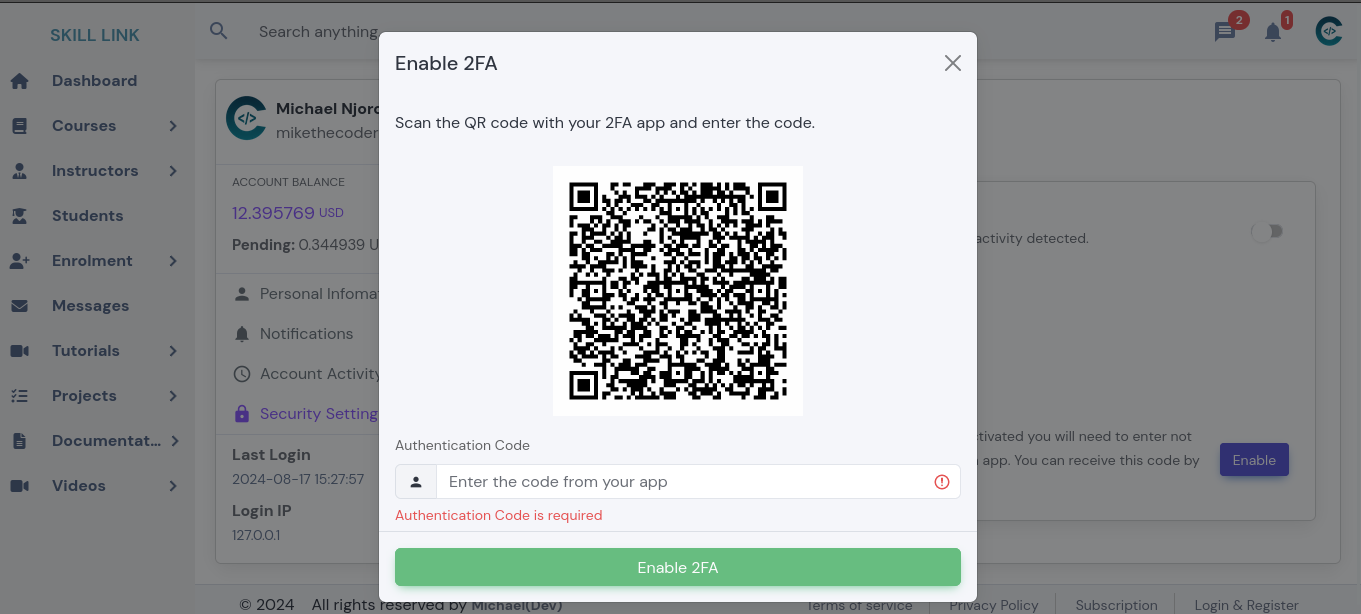
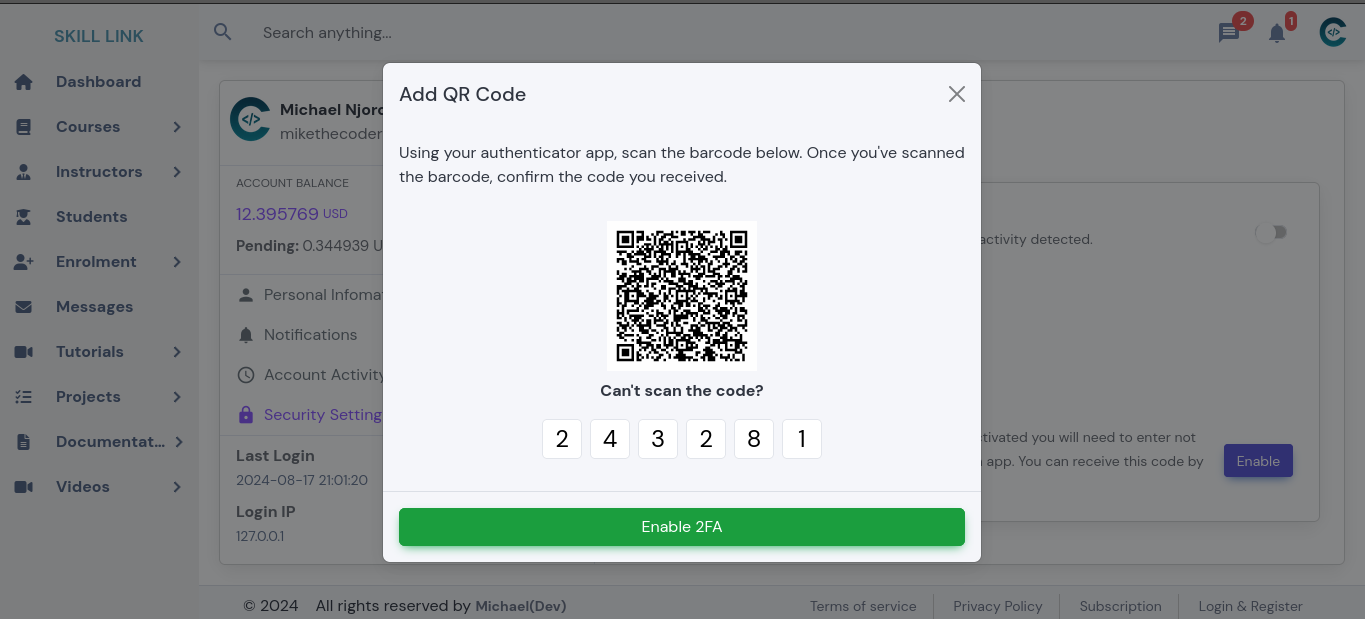
2factor auth

diff --git a/src/views/ProfilePage.vue b/src/views/ProfilePage.vue
@@ -342,7 +342,7 @@
                  :visible="visibleModal2"
                   @update:visible="visibleModal2 = $event"
                   @save="confirmAction"
-                  :modalTitle="is2FAEnabled ? 'Disable 2FA' : 'Enable 2FA'"
+                  :modalTitle="is2FAEnabled ? 'Disable 2FA' : 'Add QR Code'"
                   colorCancel="secondary"
                   colorSave="success text-white w-100"
                   alignment="center"
@@ -351,19 +351,32 @@
                   :buttonText="is2FAEnabled ? 'Disable 2FA' : 'Enable 2FA'"
                   type="submit"
                   backgroundColor="#f5f6fa"
-                  :disabled="isInvalid"
+                  :disabled="!isCodeComplete"
                >
                   <CForm novalidate :validated="validatedCustom03" @submit.prevent="confirmAction" class="row g-3 needs-validation">
-                    <p>{{ is2FAEnabled ? 'Are you sure you want to disable two-factor authentication?' : 'Scan the QR code with your 2FA app and enter the code.' }}</p>
+                    <p>{{ is2FAEnabled ? 'Are you sure you want to disable two-factor authentication?' : "Using your authenticator app, scan the barcode below. Once you've scanned the barcode, confirm the code you received." }}</p>
                     <div v-if="!is2FAEnabled">
-                      <div v-html="qrCode" class="d-flex align-items-center justify-content-center mx-auto" style="max-width: 250px; max-height: 250px; text-align: center;"></div>
-                      <CustomInput 
-                        v-model="code" 
-                        feedbackInvalid="Authentication Code is required"
-                        label="Authentication Code" 
-                        placeholder="Enter the code from your app" 
-                        required
-                      />
+                      <div v-html="qrCode" class="d-flex align-items-center justify-content-center mx-auto" style="max-width: 150px; max-height: 150px; text-align: center;"></div>
+                      <p v-if="!toggleSecret" class="text-center mt-2" style="cursor: pointer;" @click="showSecret"><strong>Can't scan the code?</strong></p>
+                      <p v-if="toggleSecret" class="mt-2 text-center" style="cursor: pointer;">
+                        <span class="mx-1">Enter the secret key</span>
+                        <span class="fw-bolder px-2 py-1 text-muted text-small" style="background-color: #fde6e9;border-radius: 5px;">{{secret}}</span>
+                      </p>
+                        <div class="code-input">
+                          <input
+                            v-for="(digit, index) in code"
+                            :key="index"
+                            v-model="code[index]"
+                            @input="moveFocus(index)"
+                            @keydown.backspace="moveBack(index)"
+                            maxlength="1"
+                            class="digit-input"
+                            type="text"
+                            inputmode="numeric"
+                            pattern="[0-9]*"
+                            :ref="el => inputRefs[index] = el"
+                          />
+                        </div>
                     </div>
                   </CForm>
               </CustomModal>
@@ -595,8 +608,31 @@ const validatedCustom03 = ref(false);
 const is2FAEnabled = ref(false);
 const isProcessing = ref(false);
 const visibleModal2 = ref(false)
-const code = ref('');
+const toggleSecret = ref(false)
+const code = ref(['', '', '', '', '', '']);
+const inputRefs = ref([]);
 const qrCode = ref('');
+const secret = ref('');
+
+const moveFocus = (index) => {
+  if (code.value[index].length === 1 && index < code.value.length - 1) {
+    inputRefs.value[index + 1].focus();
+  }
+};
+
+const moveBack = (index) => {
+  if (code.value[index] === '' && index > 0) {
+    inputRefs.value[index - 1].focus();
+  }
+};
+
+const isCodeComplete = computed(() => {
+  return code.value.every(digit => digit.length === 1);
+});
+
+const showSecret = () => {
+  toggleSecret.value = true
+}
 
 const data = ref({
   firstname: '',
@@ -625,6 +661,7 @@ const enable2FA = async () => {
     await store.dispatch('auth/enable2FA');
     const response = store.getters['auth/enable2FA'];
     qrCode.value = response.qr_code
+    secret.value = response.string
     visibleModal2.value = true;
   } catch (error) {
     console.error('Error enabling 2FA:', error);
@@ -676,10 +713,6 @@ const isFormInvalid = computed(() =>
   passwordData.value.currentPassword === '' ||
   passwordData.value.password === '' ||
   passwordData.value.password_confirmation === ''
-);
-
-const isInvalid = computed(() => 
-  code.value === ''
 );
 
 const selectSection = (section) => {
@@ -849,9 +882,21 @@ watch(route, (newRoute) => {
 .custom-input {
   border: 1px solid #e2e5eb !important;
 }
-svg{
-  width: 250px!important;
-  height: 250px!important;
+
+.code-input {
+  display: flex;
+  align-items: center;
+  justify-content: center;
+  gap: 8px; 
+}
+
+.digit-input {
+  width: 40px;
+  height: 40px;
+  text-align: center;
+  font-size: 24px;
+  border: 1px solid #ccc;
+  border-radius: 5px;
 }
 
 </style>

diff --git a/src/stores/auth/authSlice.js b/src/stores/auth/authSlice.js
@@ -11,6 +11,7 @@ import {
   loginHistory as loginHistoryService, 
   updatePassword as updatePasswordService, 
   enable2FA as enable2FAService, 
+  confirm2FA as confirm2FAService, 
 } from './authService';
 import { useToast } from 'vue-toastification';
 
@@ -35,6 +36,7 @@ export const auth = {
     isAdmin: (state) => state.isAdmin,
     redirectUrl: (state) => state.redirectUrl,
     enable2FA: (state) => state.enable2FA,
+    confirm2FA: (state) => state.confirm2FA,
     callback: (state) => state.callback,
     loginHistory: (state) => state.loginHistory,
     user: (state) => state.user,
@@ -90,6 +92,9 @@ export const auth = {
     },
     enable2FA(state,enable2FA) {
       state.enable2FA = enable2FA;
+    },
+    confirm2FA(state,confirm2FA) {
+      state.confirm2FA = confirm2FA;
     },
     loginHistory(state, loginHistory) {
       state.loginHistory = loginHistory;
@@ -206,6 +211,25 @@ export const auth = {
       } catch (error) {
         commit('setError', true);
         commit('setMessage', error.response?.data?.message || 'Failed to send');
+      } finally {
+        commit('setLoading', false);
+      }
+    },
+
+    async confirm2FA({ commit },data) {
+      commit('setLoading', true);
+      commit('setError', false);
+      commit('setSuccess', false);
+      try {
+        const response = await confirm2FAService(data);
+        const confirm2FA = response.data.data;
+        commit('confirm2FA', confirm2FA);
+        commit('setSuccess', true);
+        commit('setMessage', response?.data?.message || 'Two-factor authentication confirmed');
+        toast.info(response?.data?.message || 'Two-factor authentication confirmed');
+      } catch (error) {
+        commit('setError', true);
+        commit('setMessage', error.response?.data?.message || 'Failed to confirm');
       } finally {
         commit('setLoading', false);
       }

diff --git a/src/stores/auth/authService.js b/src/stores/auth/authService.js
@@ -32,6 +32,10 @@ export const enable2FA = () => {
   return axios.post('/2fa/prepare');
 };
 
+export const confirm2FA = (data) => {
+  return axios.post('/2fa/confirm',data);
+};
+
 export const emailVerification = (data) => {
   return axios.get(`/email/verify/${data.id}/${data.hash}?expires=${data.expires}&signature=${data.signature}`);
 };
